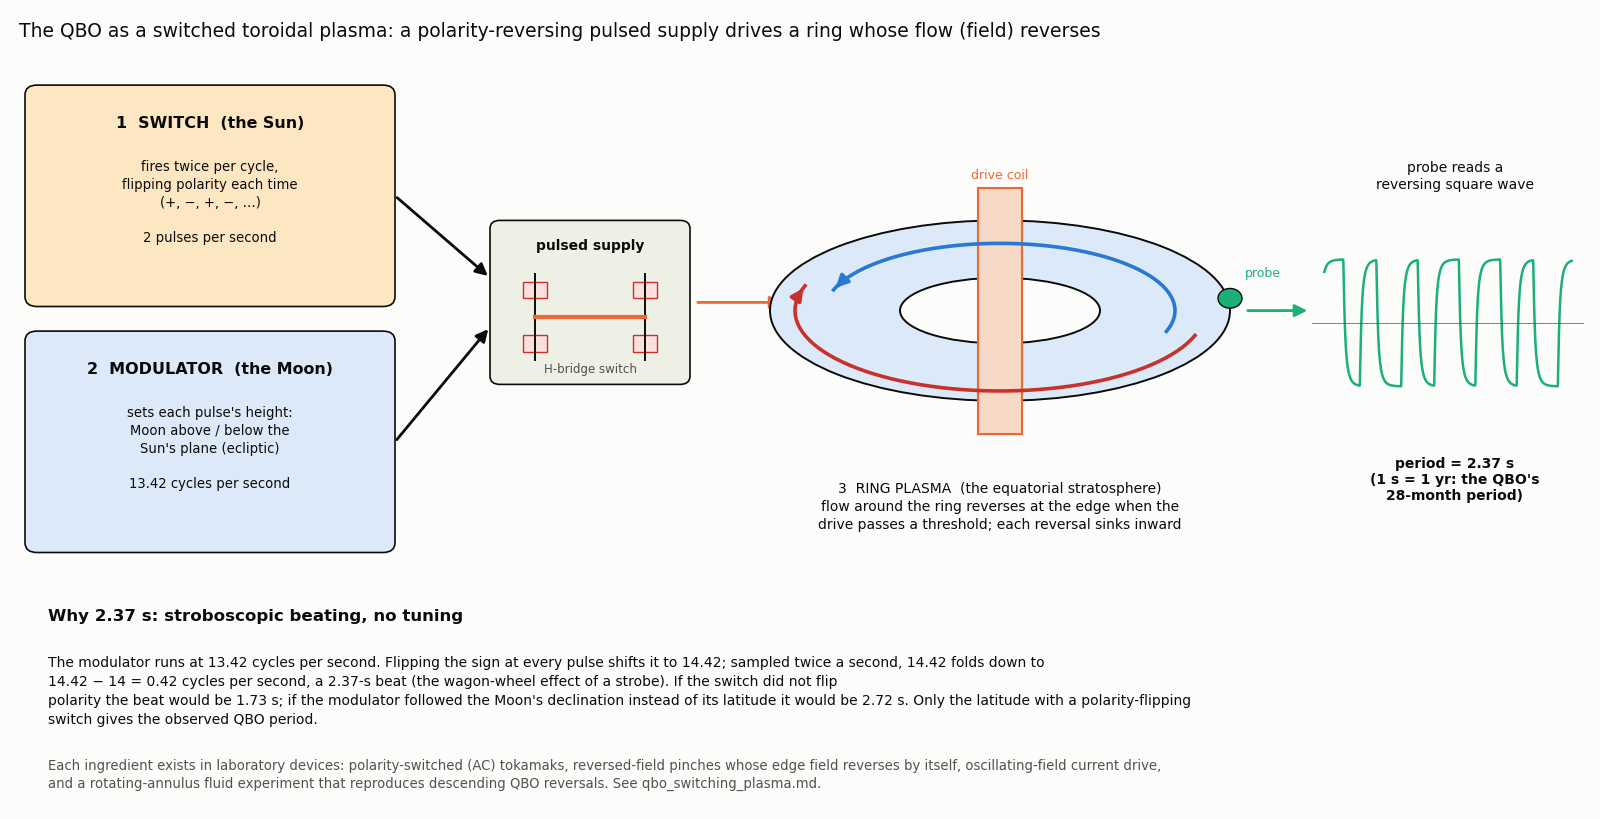
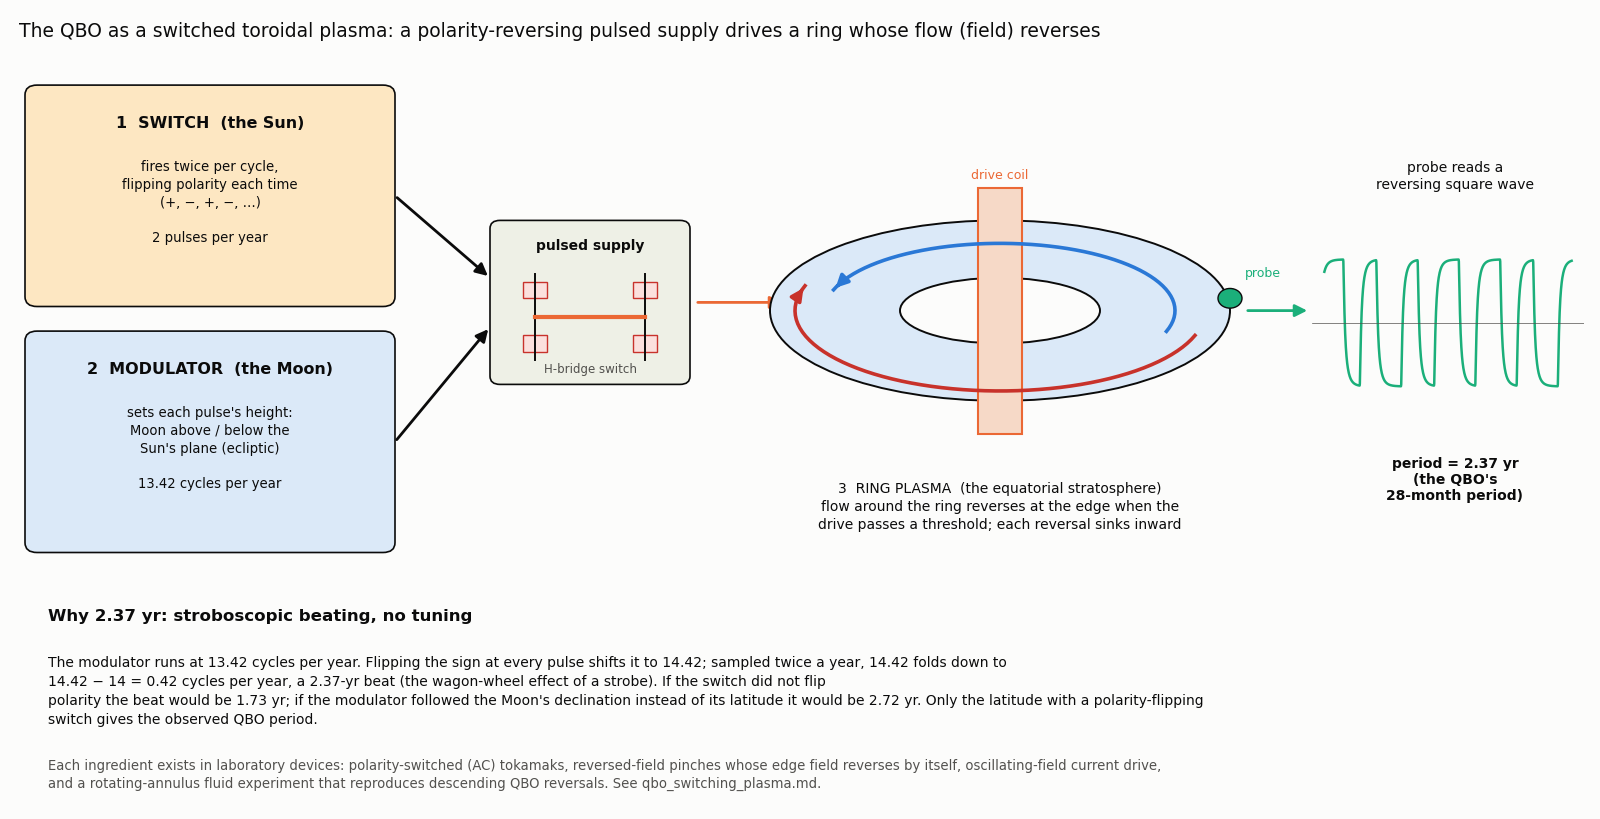
docs: qbo_switching_plasma figure timing in years (2.37 yr, cycles per year)

diff --git a/docs/qbo_switching_plasma.py b/docs/qbo_switching_plasma.py
@@ -1,6 +1,6 @@
 #!/usr/bin/env python3
 """One-panel schematic: the QBO as a switched (AC) toroidal plasma (2026-10-22). See qbo_switching_plasma.md.
-Time scale 1 yr -> 1 s. The probe trace is the comb device of qbo_tokamak.py (pulses -> integrator -> threshold).
+Timing in years (the real QBO time scale). The probe trace is the comb device of qbo_tokamak.py (pulses -> integrator -> threshold).
     python3 qbo_switching_plasma.py  -> qbo_switching_plasma.png
 """
 import json
@@ -36,8 +36,8 @@ def arrow(a, b, col=INK):
     ax.add_patch(FancyArrowPatch(a, b, arrowstyle="-|>", mutation_scale=18, color=col, lw=2))
 
 
-box(0.3, 3.3, 3.6, 2.6, "1  SWITCH  (the Sun)", "fires twice per cycle,\nflipping polarity each time\n(+, −, +, −, …)\n\n2 pulses per second", "#fde7c2")
-box(0.3, 0.3, 3.6, 2.6, "2  MODULATOR  (the Moon)", "sets each pulse's height:\nMoon above / below the\nSun's plane (ecliptic)\n\n13.42 cycles per second", "#dbe9f8")
+box(0.3, 3.3, 3.6, 2.6, "1  SWITCH  (the Sun)", "fires twice per cycle,\nflipping polarity each time\n(+, −, +, −, …)\n\n2 pulses per year", "#fde7c2")
+box(0.3, 0.3, 3.6, 2.6, "2  MODULATOR  (the Moon)", "sets each pulse's height:\nMoon above / below the\nSun's plane (ecliptic)\n\n13.42 cycles per year", "#dbe9f8")
 arrow((3.95, 1.6), (4.9, 3.0)); arrow((3.95, 4.6), (4.9, 3.6))
 # capacitor + H-bridge glyph
 ax.add_patch(FancyBboxPatch((4.95, 2.35), 1.9, 1.9, boxstyle="round,pad=0.05,rounding_size=0.1", fc="#eef0e6", ec=INK, lw=1.2))
@@ -68,19 +68,19 @@ ax.text(cx, 0.55, "3  RING PLASMA  (the equatorial stratosphere)\nflow around th
 ax.add_patch(plt.Circle((cx + 2.3, cy + 0.15), 0.12, fc=GREEN, ec=INK)); ax.text(cx + 2.45, cy + 0.42, "probe", fontsize=9, color=GREEN)
 arrow((cx + 2.45, cy), (13.1, cy), GREEN)
 ax.text(14.55, 4.7, "probe reads a\nreversing square wave", ha="center", fontsize=10, color=INK)
-ax.text(14.55, 0.9, "period = 2.37 s\n(1 s = 1 yr: the QBO's\n28-month period)", ha="center", fontsize=10, color=INK, weight="bold")
+ax.text(14.55, 0.9, "period = 2.37 yr\n(the QBO's\n28-month period)", ha="center", fontsize=10, color=INK, weight="bold")
 ins = fig.add_axes([0.82, 0.52, 0.17, 0.17]); ins.axis("off")
 u = model("COMB", X, "threshold")[2][30]; m = (TG >= 1990) & (TG < 2005)
 ins.plot(TG[m] - 1990, u[m], color=GREEN, lw=1.8); ins.axhline(0, color=MUTED, lw=0.5)
 
 # bottom strip: the arithmetic
 ax2 = fig.add_axes([0.03, 0.02, 0.94, 0.25]); ax2.axis("off")
-ax2.text(0, 0.95, "Why 2.37 s: stroboscopic beating, no tuning", fontsize=12, color=INK, weight="bold", va="top")
+ax2.text(0, 0.95, "Why 2.37 yr: stroboscopic beating, no tuning", fontsize=12, color=INK, weight="bold", va="top")
 ax2.text(0, 0.72,
-         "The modulator runs at 13.42 cycles per second. Flipping the sign at every pulse shifts it to 14.42; sampled twice a second, "
-         "14.42 folds down to\n14.42 − 14 = 0.42 cycles per second, "
-         "a 2.37-s beat (the wagon-wheel effect of a strobe). If the switch did not flip\npolarity the beat would be 1.73 s; "
-         "if the modulator followed the Moon's declination instead of its latitude it would be 2.72 s. Only the latitude with a "
+         "The modulator runs at 13.42 cycles per year. Flipping the sign at every pulse shifts it to 14.42; sampled twice a year, "
+         "14.42 folds down to\n14.42 − 14 = 0.42 cycles per year, "
+         "a 2.37-yr beat (the wagon-wheel effect of a strobe). If the switch did not flip\npolarity the beat would be 1.73 yr; "
+         "if the modulator followed the Moon's declination instead of its latitude it would be 2.72 yr. Only the latitude with a "
          "polarity-flipping\nswitch gives the observed QBO period.", fontsize=10, color=INK, va="top", linespacing=1.45)
 ax2.text(0, 0.06, "Each ingredient exists in laboratory devices: polarity-switched (AC) tokamaks, reversed-field pinches whose edge field reverses "
          "by itself, oscillating-field current drive,\nand a rotating-annulus fluid experiment that reproduces descending QBO reversals. "
